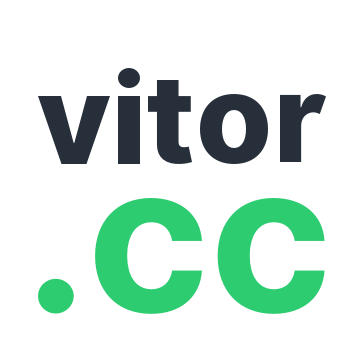
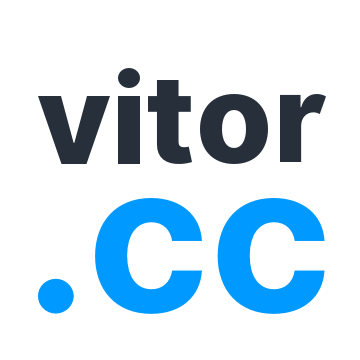
Redesigned Hero

Changed region(s): [[0.2444, 0.55, 0.9167, 0.8861], [0.0917, 0.7639, 0.2139, 0.8861]]

diff --git a/index.html b/index.html
@@ -70,14 +70,22 @@
     <section class="main-hero module">
       <div class="container">
         <div class="row">
-          <div class="col-sm col-md-6">
-            <h1>Awesome App Design starts here</h1>
-            <p><a href="https://www.linkedin.com/in/vitorcc/" class="link inline-link" target="_blank">Vitor Pinho</a> builds awesome things for Web and Mobile and help business around the world to rethink their strategy and build stunning experiences for their users on multiple platforms. Designed for amazing apps like <a href="https://sourcewhatsgood.com/" class="link inline-link" target="_blank">WhatsGood</a>, <a href="https://www.nibo.com.br/" class="link inline-link" target="_blank">Nibo</a> and <a href="https://www.wiziq.com/" class="link inline-link">WizIQ</a>.</p>
+          <div class="col-sm col-md-7">
+            <div class="hero-content">
+              <h1>Awesome App Design starts here</h1>
+              <p><a href="https://www.linkedin.com/in/vitorcc/" class="link inline-link" target="_blank">Vitor Pinho</a> builds awesome things for Web and Mobile and help business around the world to rethink their strategy and build stunning experiences for their users on multiple platforms. Designed for amazing apps like <a href="https://sourcewhatsgood.com/" class="link inline-link" target="_blank">WhatsGood</a>, <a href="https://www.nibo.com.br/" class="link inline-link" target="_blank">Nibo</a> and <a href="https://www.wiziq.com/" class="link inline-link">WizIQ</a>.</p>
+            </div>
+            <a href="#" class="anchored-icon"><i class="icon icon-arrow"></i></a>
           </div>
-          <div class="col-sm col-md-6">
+          <div class="col-sm col-md-5">
             <div class="mobile-showcase">
-              <img class="mobile-alert" src="img/mobile-asset02.png" />
+              <div class="mobile-device-info">
+                <span class="emoji">👋</span>
+                <span class="primary-info">Hello there!</span>
+                <span class="secondary-info">So, you have a new project, right? <br /> Let’s talk about that…</span>
+              </div>
               <img class="mobile-device" src="img/mobile-asset.png" />
+              <img class="mobile-device-detail" src="img/mobile-asset-detail.png" />
             </div>
           </div>
         </div>
@@ -87,36 +95,44 @@
     <!-- Featured Info -->
 
     <section class="spot-navigation">
-      <div class="container">
-        <div class="row d-flex align-items-center">
-          <!-- Spot Info Item -->
-          <div class="col-sm">
-            <div class="spot-info-holder module">
-              <h2 class="compact-heading">Designed +50 Apps</h2>
-              <p class="compact-p">Working on UX, Visual Design, Branding, Web Development or User Research.</p>
+      <div class="spot-navigation-detail"></div>
+      <div class="spot-navigation-content">
+          <div class="container">
+            <div class="row">
+              <div class="col-sm col-md-9">
+                <h2>I have been working with Web & Mobile products for almost 10 years now.</h2>
+              </div>
             </div>
-          </div>
-          <!-- Spot Info Item -->
-          <div class="col-sm">
-            <div class="spot-info-holder module">
-              <h2 class="compact-heading">Front-End Experience</h2>
-              <p class="compact-p">Worked with HTML, CSS and JS. Knowledge on GIT and Github Workflow. Currently learning React.</p>
-            </div>
-          </div>
-          <!-- Spot Info Item -->
-          <div class="col-sm">
-            <div class="spot-info-holder module">
-              <h2 class="compact-heading">Designed FarmBlocks</h2>
-              <p class="compact-p">An Open-Source Customizable Design System to use on Complex Web Projects.</p>
+            <div class="row">
+              <!-- Spot Info Item -->
+              <div class="col-sm">
+                <div class="spot-info-holder module">
+                  <div class="featured-line primary-color"></div>
+                  <h3>Designed +50 Apps</h3>
+                  <p class="compact-p">Working on UX, Visual Design, Branding, Web Development and User Research.</p>
+                </div>
+              </div>
+              <!-- Spot Info Item -->
+              <div class="col-sm">
+                <div class="spot-info-holder module">
+                  <div class="featured-line second-color"></div>
+                  <h3>Designed FarmBlocks</h3>
+                  <p class="compact-p">An Open-Source Customisable Design System to use on Complex Web Projects.</p>
+                </div>
+              </div>
+              <!-- Spot Info Item -->
+              <div class="col-sm">
+                <div class="spot-info-holder module">
+                  <div class="featured-line third-color"></div>
+                  <h3>Front-End Experience</h3>
+                  <p class="compact-p">Worked with HTML, CSS and JS. GIT and Github Workflow - Learning React.</p>
+                </div>
+              </div>
             </div>
           </div>
         </div>
-      </div>
     </section>
 
-    <!-- Grey Divisor Between Sections -->
-
-    <div class="extra-divisor module"></div>
 
     <!-- Showcase: WhatsGood -->
 
@@ -193,11 +209,6 @@
           </div>
     </section>
 
-
-    <!-- Grey Divisor Between Sections -->
-
-    <div class="extra-divisor module"></div>
-
     <!-- Showcase: FarmBlocks -->
 
     <section class="work-showcase farmblocks module">
@@ -271,10 +282,6 @@
             </div>
           </div>
     </section>
-
-    <!-- Grey Divisor Between Sections -->
-
-    <div class="extra-divisor module"></div>
 
 
     <!-- Showcase: Get In. Sell Out. -->
@@ -350,10 +357,6 @@
             </div>
           </div>
     </section>
-
-    <!-- Grey Divisor Between Sections -->
-
-    <div class="extra-divisor module"></div>
 
     <footer>
       <div class="container">

diff --git a/css/main.css b/css/main.css
@@ -86,12 +86,12 @@ html {
 
 /* Headings & Font */
 
-body { font-family: 'Inter-UI', sans-serif; font-weight: 400; max-width: 100%; overflow-x: hidden; background-color: #F3FFF8; }
+body { font-family: 'Inter-UI', sans-serif; font-weight: 400; max-width: 100%; overflow-x: hidden; }
 h1 { font-size: 72px; color: #262F3A; line-height: 86px; font-weight: 600; }
-h2 { font-size: 56px; color: #262F3A; font-weight: 600; }
-h3 { font-size: 48px; color: #262F3A; font-weight: 400; }
+h2 { font-size: 40px; color: #262F3A; line-height: 48px; font-weight: 600; }
+h3 { font-size: 32px; color: #262F3A; line-height: 48px; font-weight: 400; }
 p { font-size: 18px; color: rgba(38,47,58,0.64); line-height: 32px; margin: 24px 0; }
-span { font-size: 28px; color: rgba(38,47,58,0.64); line-height: 56px; display: block; }
+span { font-size: 28px; line-height: 56px; display: block; }
 b { font-weight: 600; }
 .compact-heading { font-size: 28px; color: #262F3A; font-weight: 600; }
 .compact-p { font-size: 18px; color: rgba(38,47,58,0.64); line-height: 24px; }
@@ -100,6 +100,8 @@ b { font-weight: 600; }
 /* Actionables */
 
 a, .footer-nav-item, button { transition: all 0.2s ease; }
+.anchored-icon { position: absolute; line-height: 72px; border-radius: 100%; width: 72px; height: 72px; background: #0099FF; box-shadow: 0 2px 4px 0 rgba(0,0,0,0.16); color: #FFF; text-align: center; bottom: -140px; z-index: 10; }
+.anchored-icon i { vertical-align: middle; font-size: 24px; margin-bottom: -5px; }
 .main-logo:hover { opacity: .8; }
 .link { font-weight: 600; color: rgba(38,47,58,0.64); }
 .link:hover { color: rgba(80,77,227,.7); text-decoration: none;  }
@@ -141,13 +143,28 @@ footer .social-links a { margin: 0 88px 0 0; }
 
 /* Content */
 
-.main-hero { padding-bottom: 80px; }
+.main-hero { padding-bottom: 180px; }
+.hero-content { padding-top: 60px; width: 90%; }
 .mobile-showcase { width: 100%; }
-.mobile-showcase .mobile-device { width: 70%; position: absolute; bottom: 0; left: 0; right: 0; z-index: 6; margin: 0 auto; }
-.mobile-showcase .mobile-alert { width: 70%; position: absolute; top: 15%; bottom: 0; left: 0; right: 0; z-index: 7; margin: 0 auto;  }
+.mobile-device-info { position: absolute; z-index: 100; text-align: center; width: 80%; left: 5%; top: 10%; }
+.mobile-device-info .emoji { font-size: 65px; margin-bottom: 24px; background-clip: text; -webkit-background-clip: text; }
+.mobile-device-info .primary-info { font-weight: 600; font-size: 40px; color: #FFF; letter-spacing: -0.25px; text-align: center; margin-bottom: 18px; }
+.mobile-device-info .secondary-info { font-size: 16px; line-height: 24px; color: #FFF; letter-spacing: -0.1px; text-align: center; }
+.mobile-showcase .mobile-device { width: 80%; position: absolute; bottom: -160px; left: -10%; right:0; z-index: 99; margin: 0 auto; }
+.mobile-showcase .mobile-device-detail { width: 110%; position: absolute; top: 10%; bottom: 0; left: -10%; right:0; z-index: 7; margin: 0 auto;  }
 .project-info-id { margin-bottom: 32px; margin-top: 24px; }
 .project-links, .project-info-id { margin-left: 16px; }
-.spot-info-holder { padding: 32px 24px; height: 100%; background-color: rgba(46,204,113,0.08); border-radius: 9px; }
+
+.spot-navigation { padding: 120px 0; background-color: #262F3A; position: relative; }
+.spot-navigation-detail { position: absolute; width: 100%; height: 240px; top: -120px; background-color: #262F3A; transform:skew(0deg,-5deg); -ms-transform:skew(0deg,-10deg); -webkit-transform:skew(0deg,-5deg); }
+.spot-info-holder { padding: 32px 24px; height: 100%; background: #262F3A; box-shadow: 0 4px 6px 0 rgba(0,0,0,0.32); border-radius: 9px; }
+.spot-navigation-content h2 { color: #FFF; margin-bottom: 64px; }
+.spot-info-holder h3 { font-weight: 600; font-size: 28px; color: #FFF; }
+.spot-info-holder p { font-weight: 400; font-size: 18px; color: rgba(255,255,255,0.56); line-height: 24px; margin-bottom: 0; }
+.featured-line { width: 100%; height: 7px; margin-bottom: 40px; border-radius: 50px; }
+.featured-line.primary-color { background-color: #0099FF; }
+.featured-line.second-color { background-color: #E3694D; }
+.featured-line.third-color { background-color: #20D76D; }
 .image-info-holder .image-holder { background: #504DE3; border-radius: 3px; text-align: center; padding: 40px; margin-bottom: 24px; }
 .image-info-holder .image-holder img { width: auto; height: 180px; margin: 0 auto; vertical-align: middle; }
 .work-info-holder .image-holder { background: #FFF; border-radius: 3px; text-align: center; margin-bottom: 24px; overflow: hidden; height: 350px; }
@@ -157,7 +174,6 @@ footer .social-links a { margin: 0 88px 0 0; }
 .featured-image img { width: 105%; height: auto; }
 .avatar { width: 500px; height: 500px; margin: 0 auto; border-radius: 100%; }
 .avatar img { width: auto; height: 100%; margin-left: -25%; }
-.extra-divisor { height: 1px; background-color: rgba(0,0,0,0.08); margin: 24px auto; width: 100%; }
 
 /* Carousel */
 
@@ -224,6 +240,9 @@ footer .social-links a { margin: 0 88px 0 0; }
 @media screen and (max-width: 1300px) {
   .carousel-inner { max-height: 780px; }
   .carousel-item { height: 780px; }
+  h1 { font-size: 64px; color: #262F3A; line-height: 72px; font-weight: 600; }
+  h2 { font-size: 32px; color: #262F3A; line-height: 40px; font-weight: 600; }
+  h3 { font-size: 28px; color: #262F3A; line-height: 32px; font-weight: 400; }
 }
 
 @media screen and (max-width: 800px) {
